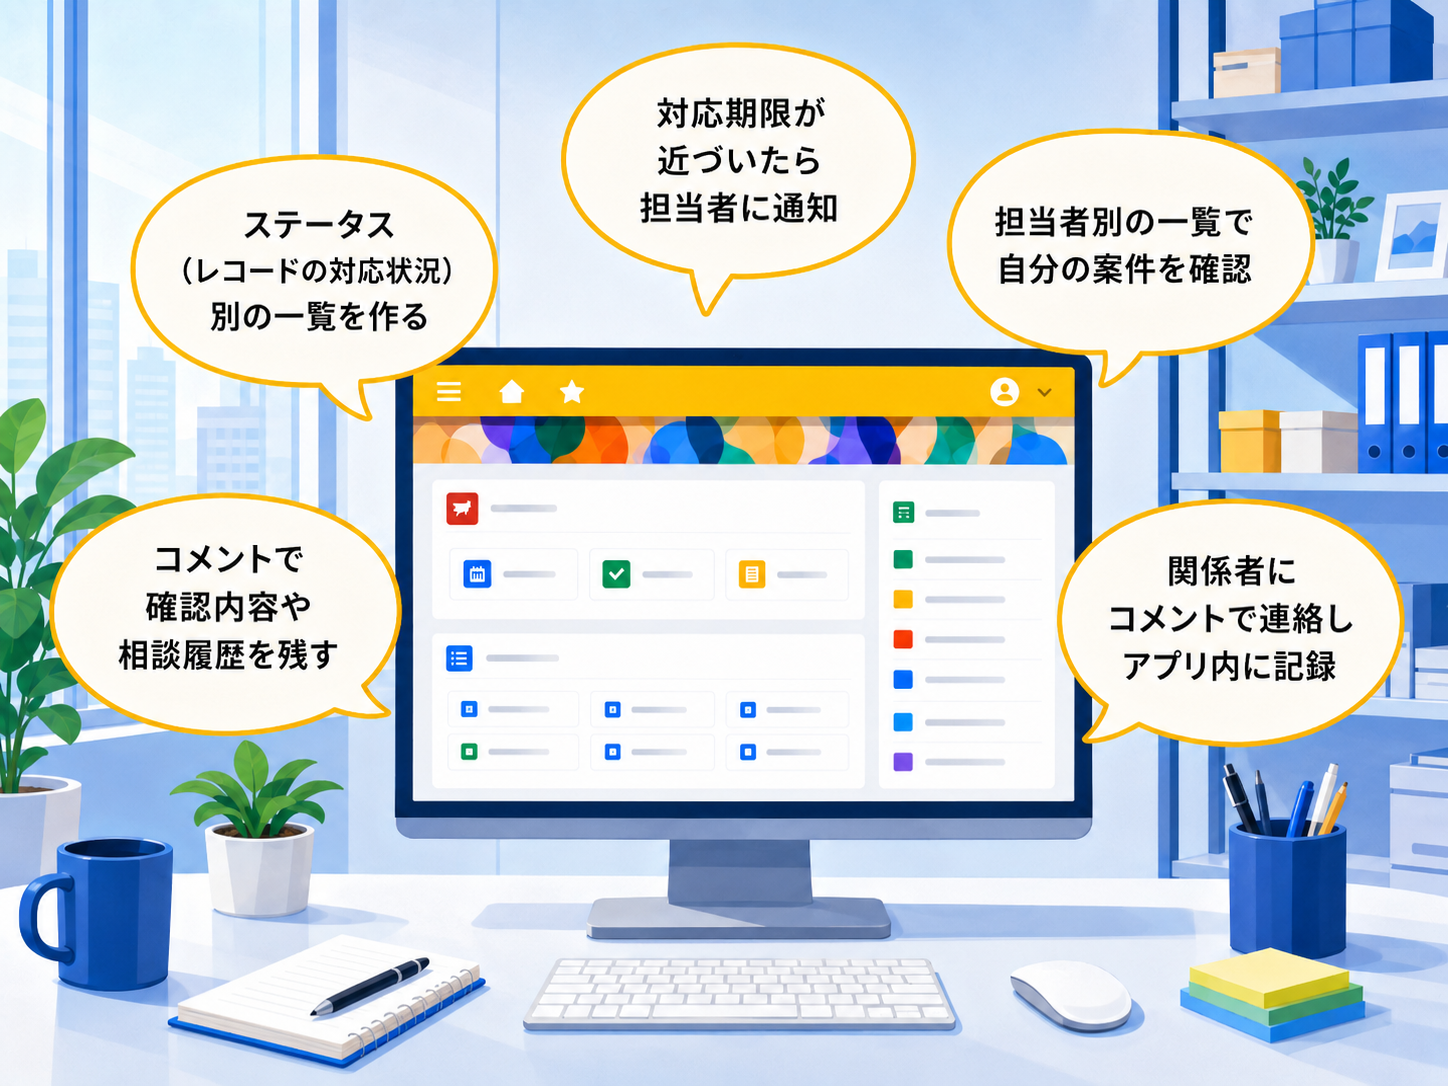
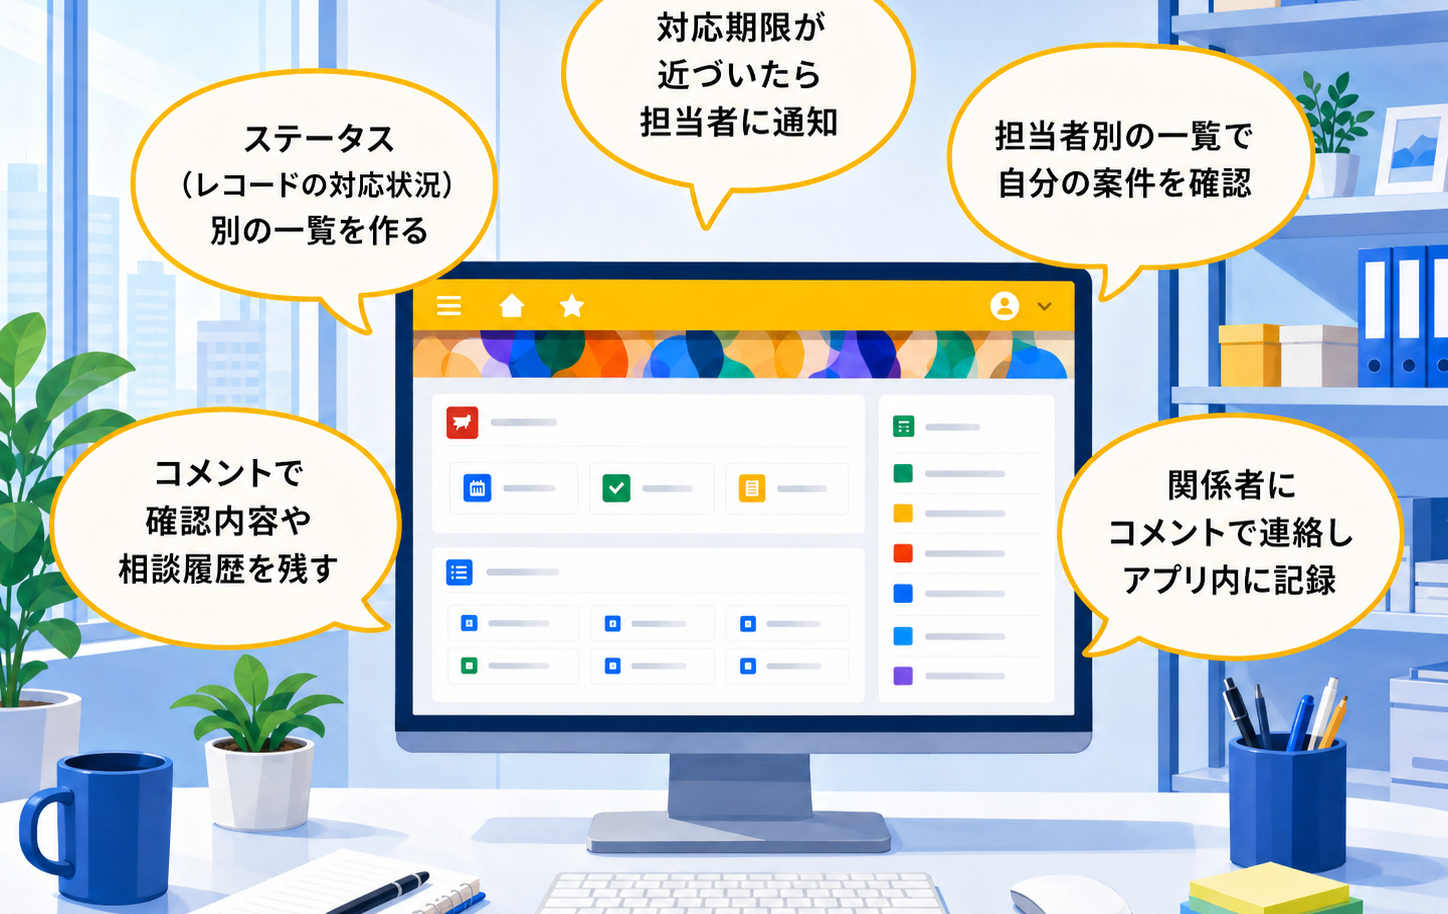
業務改善：使い方画像を上下8%カット＋「入力項目を増やしすぎないことが大切」→「最初から入力項目を増やしすぎないことが大切」

diff --git a/column/kintone-business-improvement/index.html b/column/kintone-business-improvement/index.html
@@ -969,7 +969,7 @@
                 </figure>
 
                 <p>
-                    項目を設計するときは、<strong>入力項目を増やしすぎないことが大切</strong>です。<br>
+                    項目を設計するときは、<strong>最初から入力項目を増やしすぎないことが大切</strong>です。<br>
                     管理したい情報をすべて入れようとすると、現場の入力負担が大きくなり、運用が続きにくくなることがあります。まずは必要最低限の項目から始め、運用しながら追加・修正していくと進めやすくなります。
                 </p>
 
